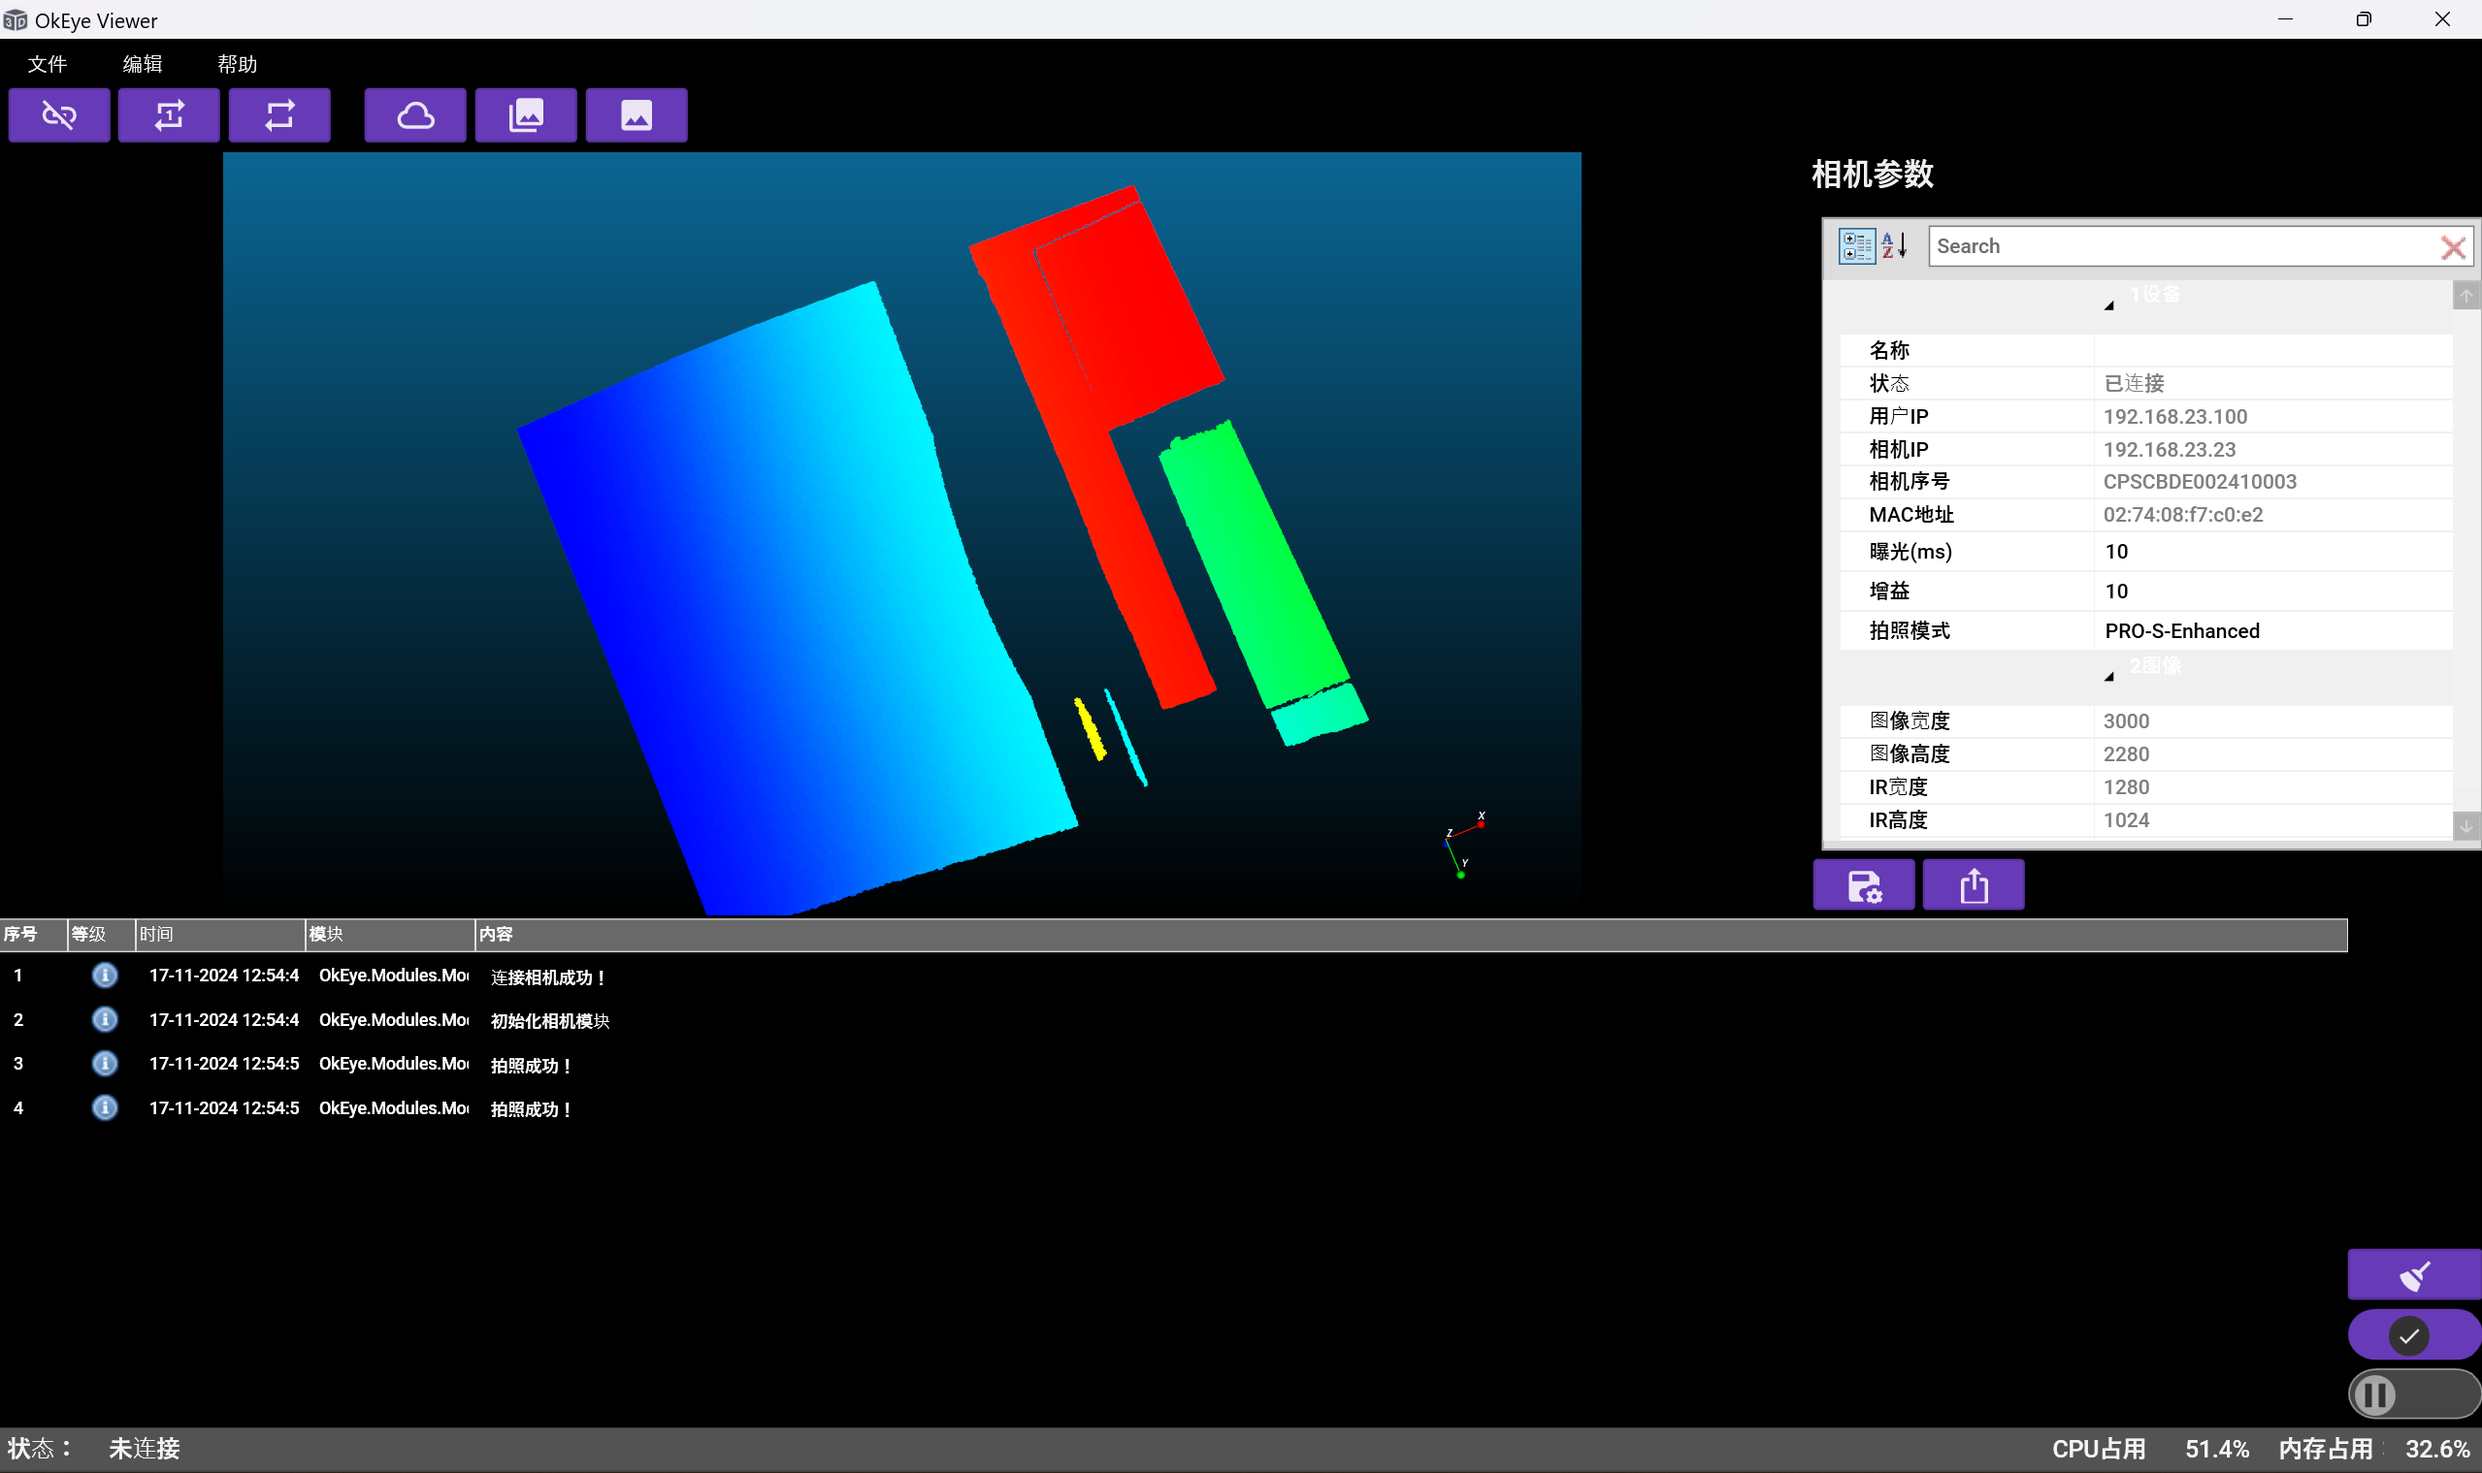
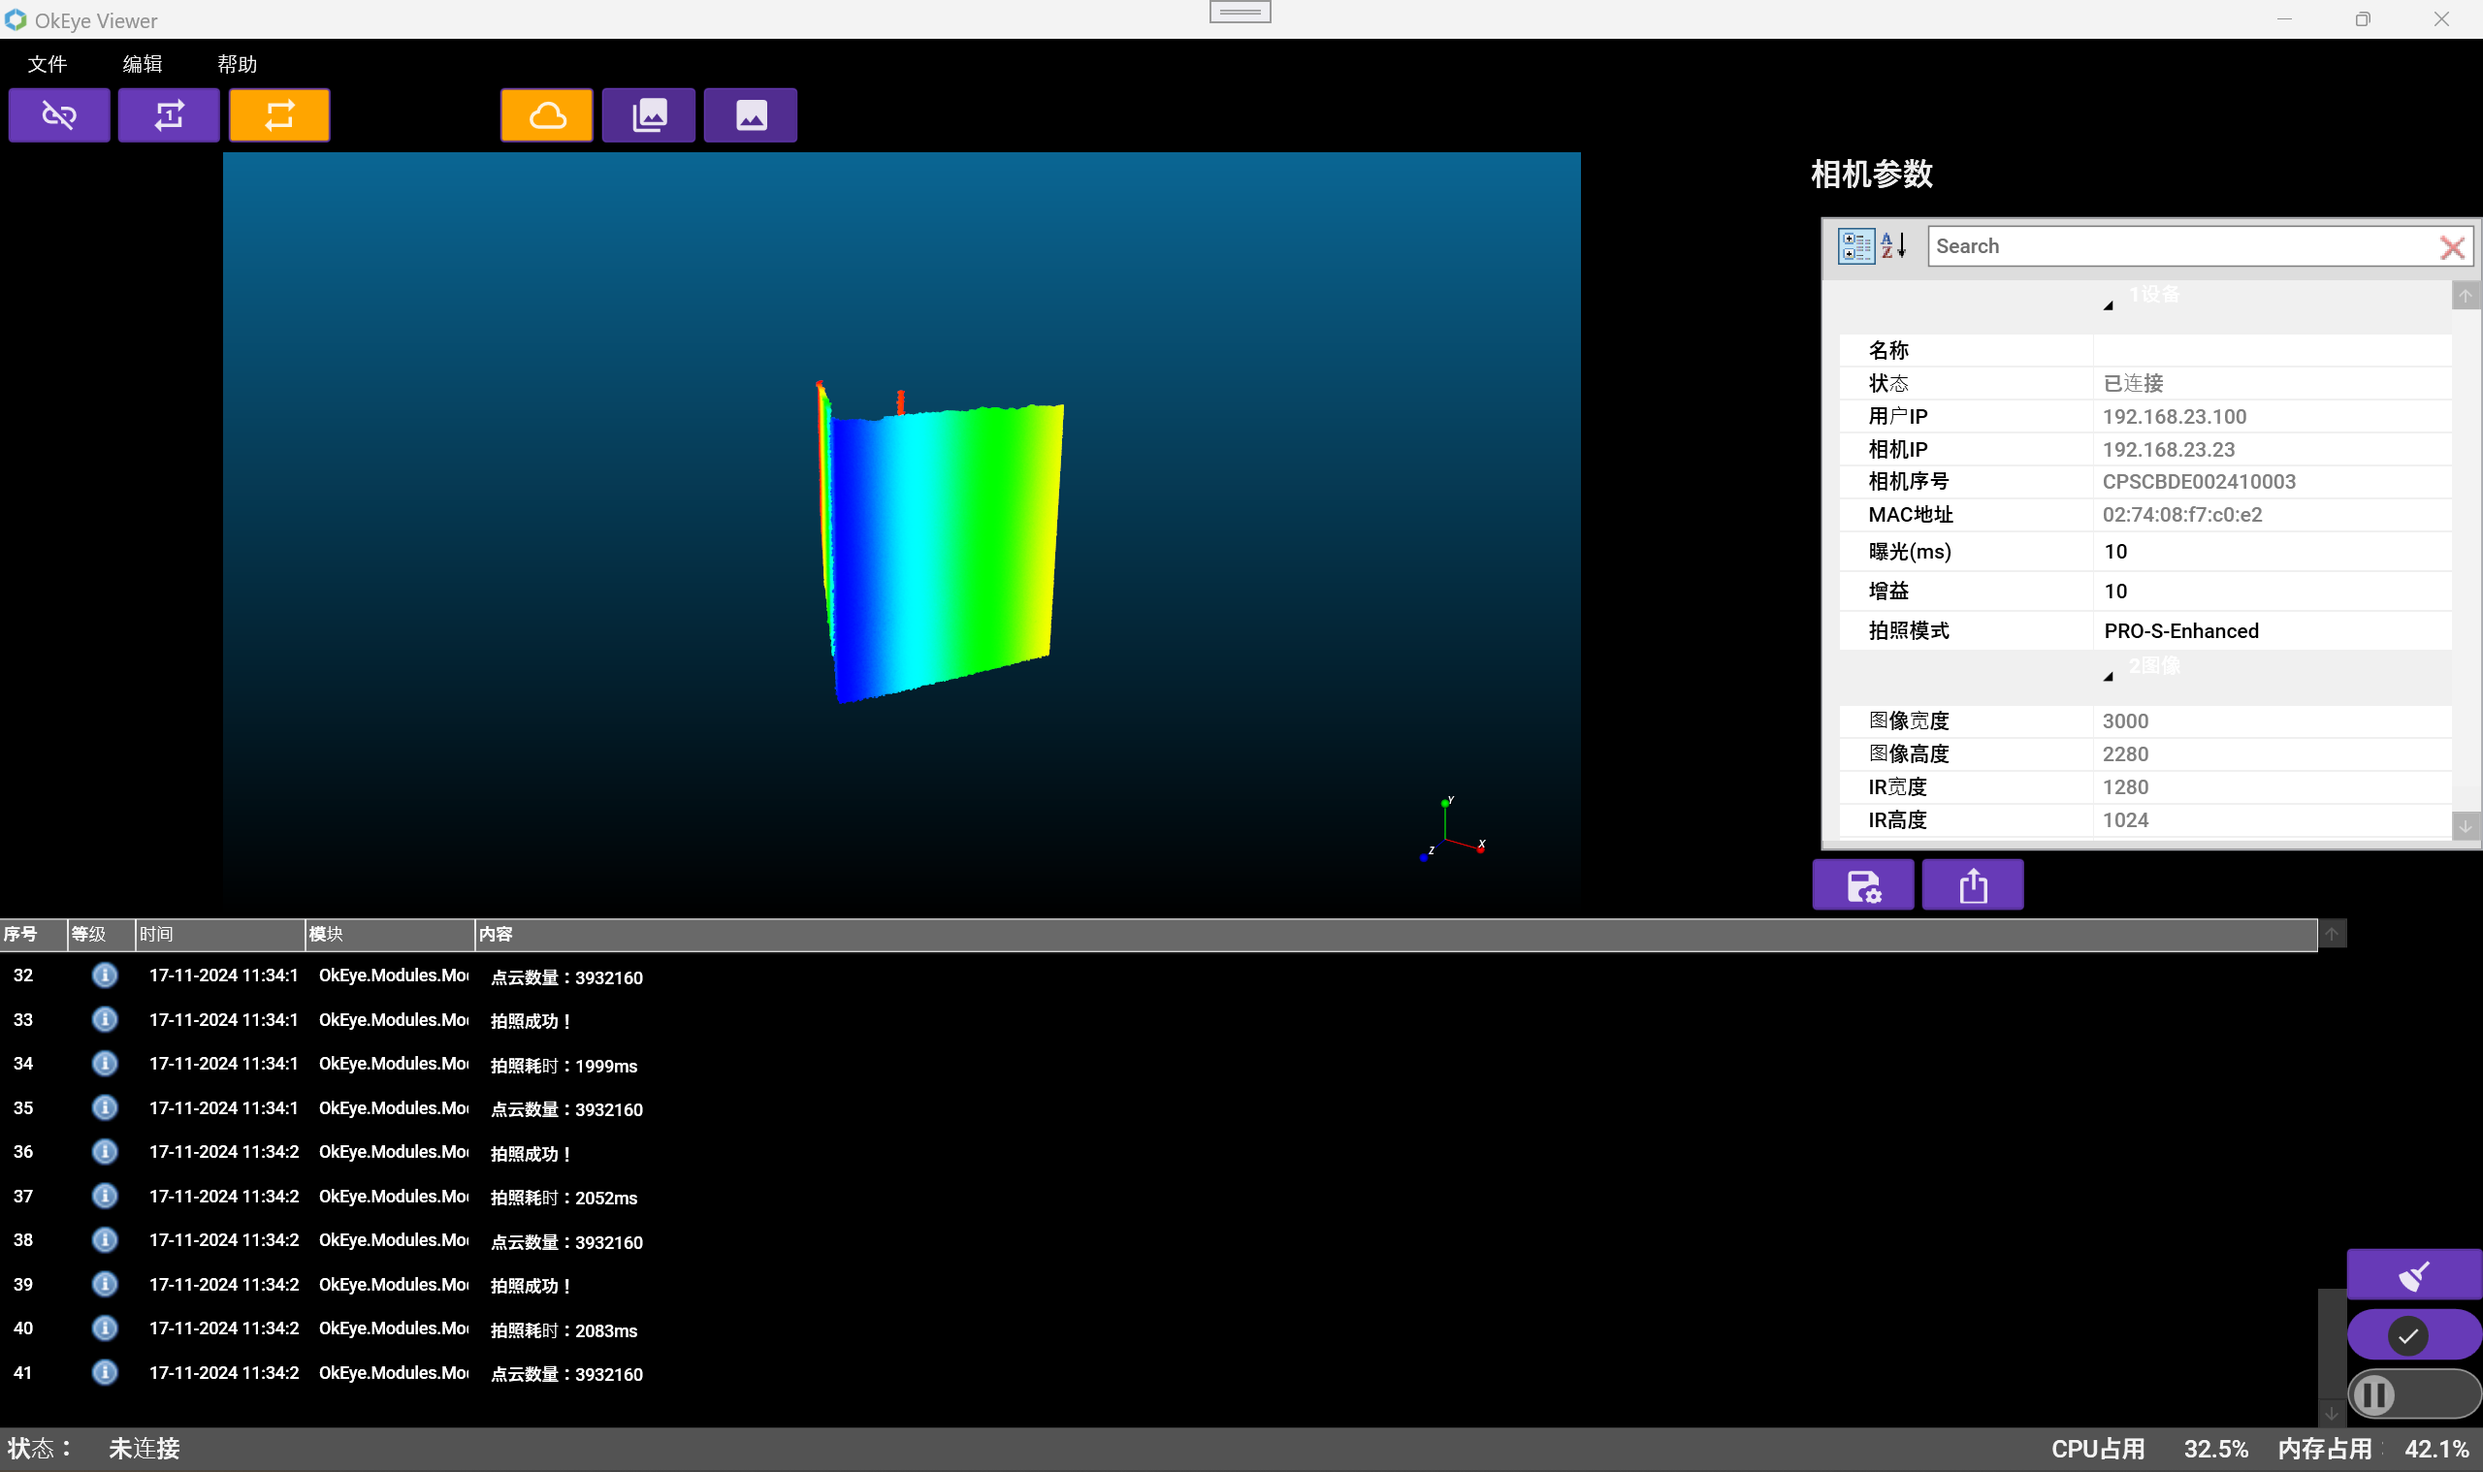
1.增加了按钮触发颜色的变化 2.更新说明文档

diff --git a/OkEye/Modules/OkEye.Modules.ModuleCamera/Views/ViewCamera.xaml b/OkEye/Modules/OkEye.Modules.ModuleCamera/Views/ViewCamera.xaml
@@ -11,6 +11,8 @@
              xmlns:core="clr-namespace:OkEye.Core;assembly=OkEye.Core"
              mc:Ignorable="d" 
              d:DesignHeight="800" d:DesignWidth="1000">
+
+    
     <Grid>
         <Grid>
             <Grid.RowDefinitions>
@@ -25,22 +27,27 @@
                             Command="{Binding DisconnectCameraCommand}" Margin="5,0,0,0"></Button>
                     <Button Width="60" HorizontalAlignment="Left"
                             Content="{materialDesign:PackIcon RepeatOnce, Size=24}"
+                            Background="{Binding OnceSnapButtonBackground}"
                             ToolTip="单次拍照"
                             Command="{Binding SnapOnceCommand}" Margin="5,0,0,0"></Button>
                     <Button Width="60" HorizontalAlignment="Left"
                             Content="{materialDesign:PackIcon Repeat, Size=24}"
+                            Background="{Binding RepeatSnapButtonBackground}"
                             ToolTip="连续拍照"
                             Command="{Binding SnapRepeatCommand}" Margin="5,0,0,0"></Button>
-                    <Button Width="60" HorizontalAlignment="Left"
+                    <Button Width="55" HorizontalAlignment="Left"
                             Content="{materialDesign:PackIcon CloudOutline, Size=24}"
+                            Background="{Binding CloudButtonBackground}"
                             ToolTip="点云"
-                            Command="{Binding ShowCloudCommand}" Margin="20,0,0,0" ></Button>
-                    <Button Width="60" HorizontalAlignment="Left"
+                            Command="{Binding ShowCloudCommand}" Margin="100,0,0,0" ></Button>
+                    <Button Width="55" HorizontalAlignment="Left"
                             Content="{materialDesign:PackIcon ImageMultiple, Size=24}"
+                            Background="{Binding DepthButtonBackground}"
                             ToolTip="深度图"
                             Command="{Binding ShowDepthCommand}" Margin="5,0,0,0" ></Button>
-                    <Button Width="60" HorizontalAlignment="Left"
+                    <Button Width="55" HorizontalAlignment="Left"
                             Content="{materialDesign:PackIcon Image, Size=24}"
+                            Background="{Binding ImageButtonBackground}"
                             ToolTip="图像"
                             Command="{Binding ShowImageCommand}" Margin="5,0,0,0"></Button>
                 </StackPanel>

diff --git a/OkEye/Modules/OkEye.Modules.ModuleCamera/ViewModels/ViewCameraViewMode.cs b/OkEye/Modules/OkEye.Modules.ModuleCamera/ViewModels/ViewCameraViewMode.cs
@@ -13,6 +13,7 @@ using System.Threading.Tasks;
 using OpenCvSharp;
 using Prism.Events;
 using OkEye.Modules.ModuleCamera.Events;
+using System.Windows.Media;
 
 namespace OkEye.Modules.ModuleCamera.ViewModels
 {
@@ -21,7 +22,38 @@ namespace OkEye.Modules.ModuleCamera.ViewModels
         private ICameraService _cameraService;
         private IEventAggregator _imageAggregator;
 
+        SolidColorBrush _onceSnapButtonBackground;
+        public SolidColorBrush OnceSnapButtonBackground
+        {
+            get { return _onceSnapButtonBackground; }
+            set { SetProperty(ref _onceSnapButtonBackground, value); }
+        }
 
+        SolidColorBrush _repeatSnapButtonBackground;
+        public SolidColorBrush RepeatSnapButtonBackground
+        {
+            get { return _repeatSnapButtonBackground; }
+            set { SetProperty(ref _repeatSnapButtonBackground, value); }
+        }
+
+        SolidColorBrush _depthButtonBackground;
+        public SolidColorBrush DepthButtonBackground
+        {
+            get { return _depthButtonBackground; }
+            set { SetProperty(ref _depthButtonBackground, value); }
+        }
+        SolidColorBrush _cloudButtonBackground;
+        public SolidColorBrush CloudButtonBackground
+        {
+            get { return _cloudButtonBackground; }
+            set { SetProperty(ref _cloudButtonBackground, value); }
+        }
+        SolidColorBrush _imageButtonBackground;
+        public SolidColorBrush ImageButtonBackground
+        {
+            get { return _imageButtonBackground; }
+            set { SetProperty(ref _imageButtonBackground, value); }
+        }
 
         private Logger<ViewCameraViewModel> _logger;    // 日志记录器
 
@@ -51,6 +83,12 @@ namespace OkEye.Modules.ModuleCamera.ViewModels
             _logger = logger;
             _logger.LogInformation("初始化相机模块");
 
+            OnceSnapButtonBackground = new SolidColorBrush(Color.FromRgb(103,58,183));
+            RepeatSnapButtonBackground = new SolidColorBrush(Color.FromRgb(103,58,183));
+
+            DepthButtonBackground = new SolidColorBrush(Color.FromArgb(200,103,58,183));
+            CloudButtonBackground = new SolidColorBrush(Color.FromArgb(200, 103,58,183));
+            ImageButtonBackground = new SolidColorBrush(Color.FromArgb(200, 103,58,183));
 
             _imageAggregator = imageAggregator;
             // 将ViewDevice 和 ViewMain 两个视图添加到MainContentRegion中
@@ -61,14 +99,24 @@ namespace OkEye.Modules.ModuleCamera.ViewModels
             ShowCloudCommand = new DelegateCommand(() =>
             {
                 RegionManager.RequestNavigate(RegionNames.FrameDataRegion, "ViewCloud");
+                DepthButtonBackground = new SolidColorBrush(Color.FromArgb(200, 103, 58, 183));
+                CloudButtonBackground = new SolidColorBrush(Colors.Orange); 
+                ImageButtonBackground = new SolidColorBrush(Color.FromArgb(200, 103, 58, 183));
             });
             ShowDepthCommand = new DelegateCommand(() =>
             {
                 RegionManager.RequestNavigate(RegionNames.FrameDataRegion, "ViewDepth");
+                DepthButtonBackground = new SolidColorBrush(Colors.Orange);
+                CloudButtonBackground = new SolidColorBrush(Color.FromArgb(200, 103, 58, 183));
+                ImageButtonBackground = new SolidColorBrush(Color.FromArgb(200, 103, 58, 183));
+
             });
             ShowImageCommand = new DelegateCommand(() =>
             {
                 RegionManager.RequestNavigate(RegionNames.FrameDataRegion, "ViewImage");
+                DepthButtonBackground = new SolidColorBrush(Color.FromArgb(200, 103, 58, 183));
+                CloudButtonBackground = new SolidColorBrush(Color.FromArgb(200, 103, 58, 183));
+                ImageButtonBackground = new SolidColorBrush(Colors.Orange); 
             });
 
             CameraInfo = _cameraService.GetCameraInfo();
@@ -87,6 +135,10 @@ namespace OkEye.Modules.ModuleCamera.ViewModels
                 isSnapRepeat = !isSnapRepeat;
                 return;
             }
+            System.Windows.Application.Current.Dispatcher.Invoke(new Action(() =>
+            {
+                RepeatSnapButtonBackground = new SolidColorBrush(Colors.Orange);
+            }));
 
             Task.Run(() =>
             {
@@ -103,22 +155,39 @@ namespace OkEye.Modules.ModuleCamera.ViewModels
                     // 检查是否需要停止拍照
                     if (isSnapRepeat == false)
                     {
+                        System.Windows.Application.Current.Dispatcher.Invoke(new Action(() =>
+                        {
+                            RepeatSnapButtonBackground = new SolidColorBrush(Color.FromRgb(103,58,183));
+                        }));
                         break;
                     }
                 }
             });
+            
         }
 
-        public void StartSnapRepeat()
-        {
-
-        }
 
         private void OnSnapOnceCommand()
         {
             // 启动线程连接相机
-            Thread connectCameraThr = new Thread(() => StartSnapOnce());
+            Thread connectCameraThr = new Thread(() => SnapOnce());
             connectCameraThr.Start();
+        }
+
+        private void SnapOnce()
+        {
+            // 更新界面
+            System.Windows.Application.Current.Dispatcher.Invoke(new Action(() =>
+            {
+                OnceSnapButtonBackground = new SolidColorBrush(Colors.Orange);
+            }));
+            StartSnapOnce();
+            System.Windows.Application.Current.Dispatcher.Invoke(new Action(() =>
+            {
+                OnceSnapButtonBackground = new SolidColorBrush(Color.FromRgb(103,58,183));
+            }));
+          
+            
         }
 
         private void StartSnapOnce()
